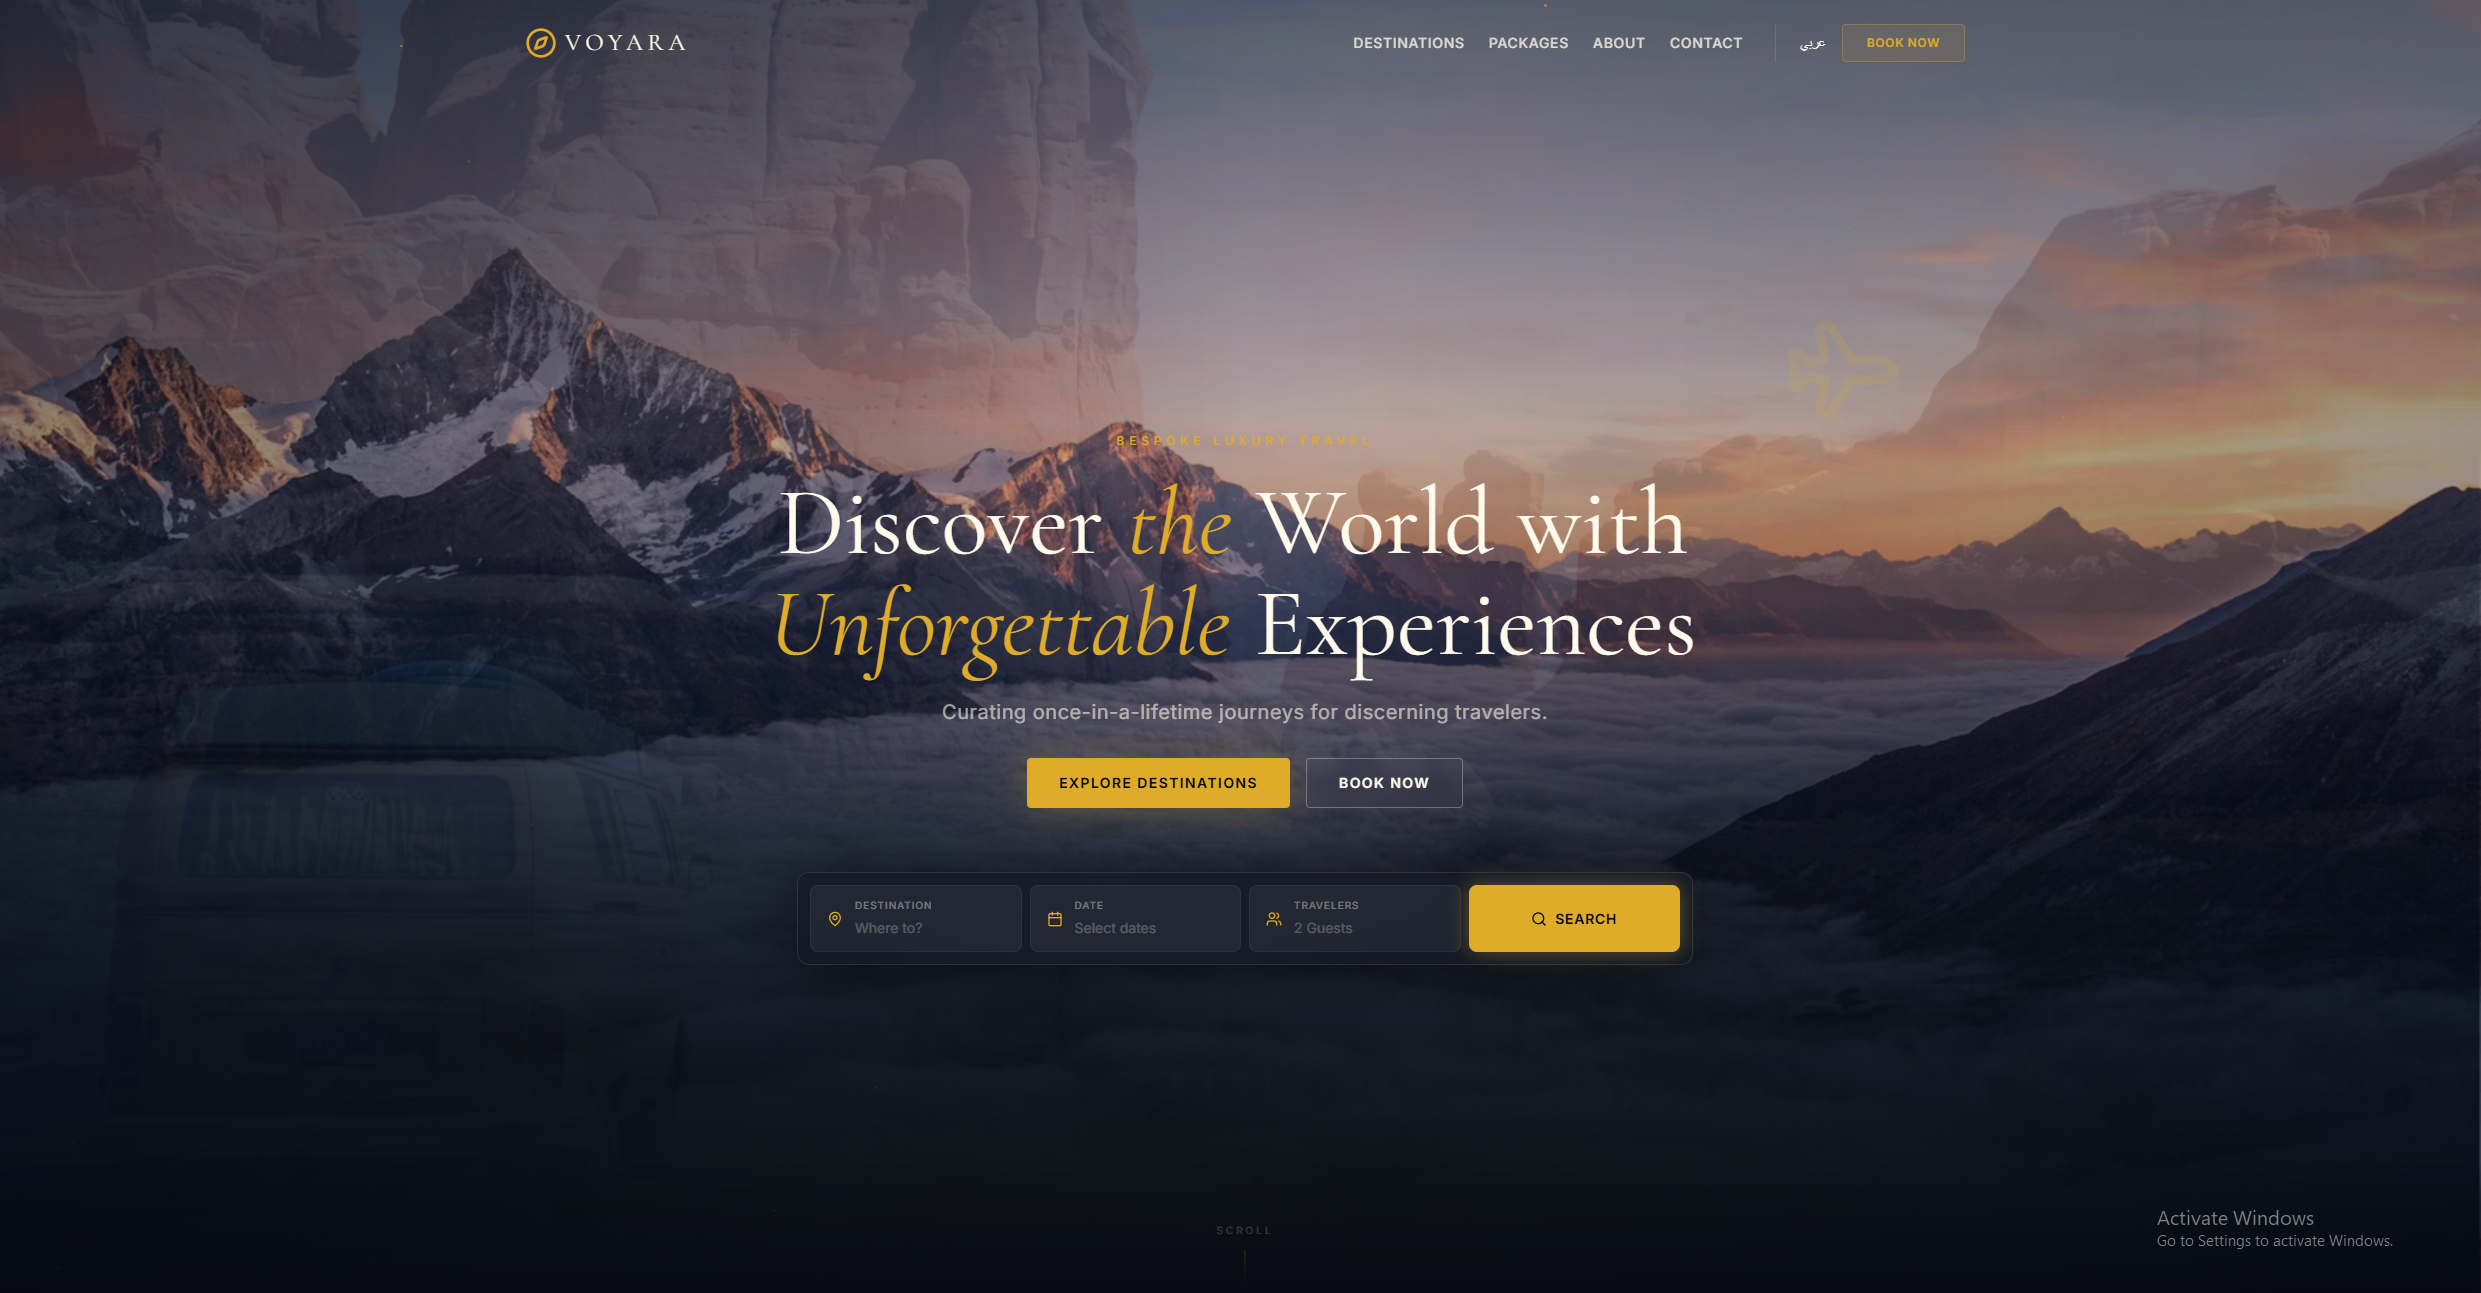
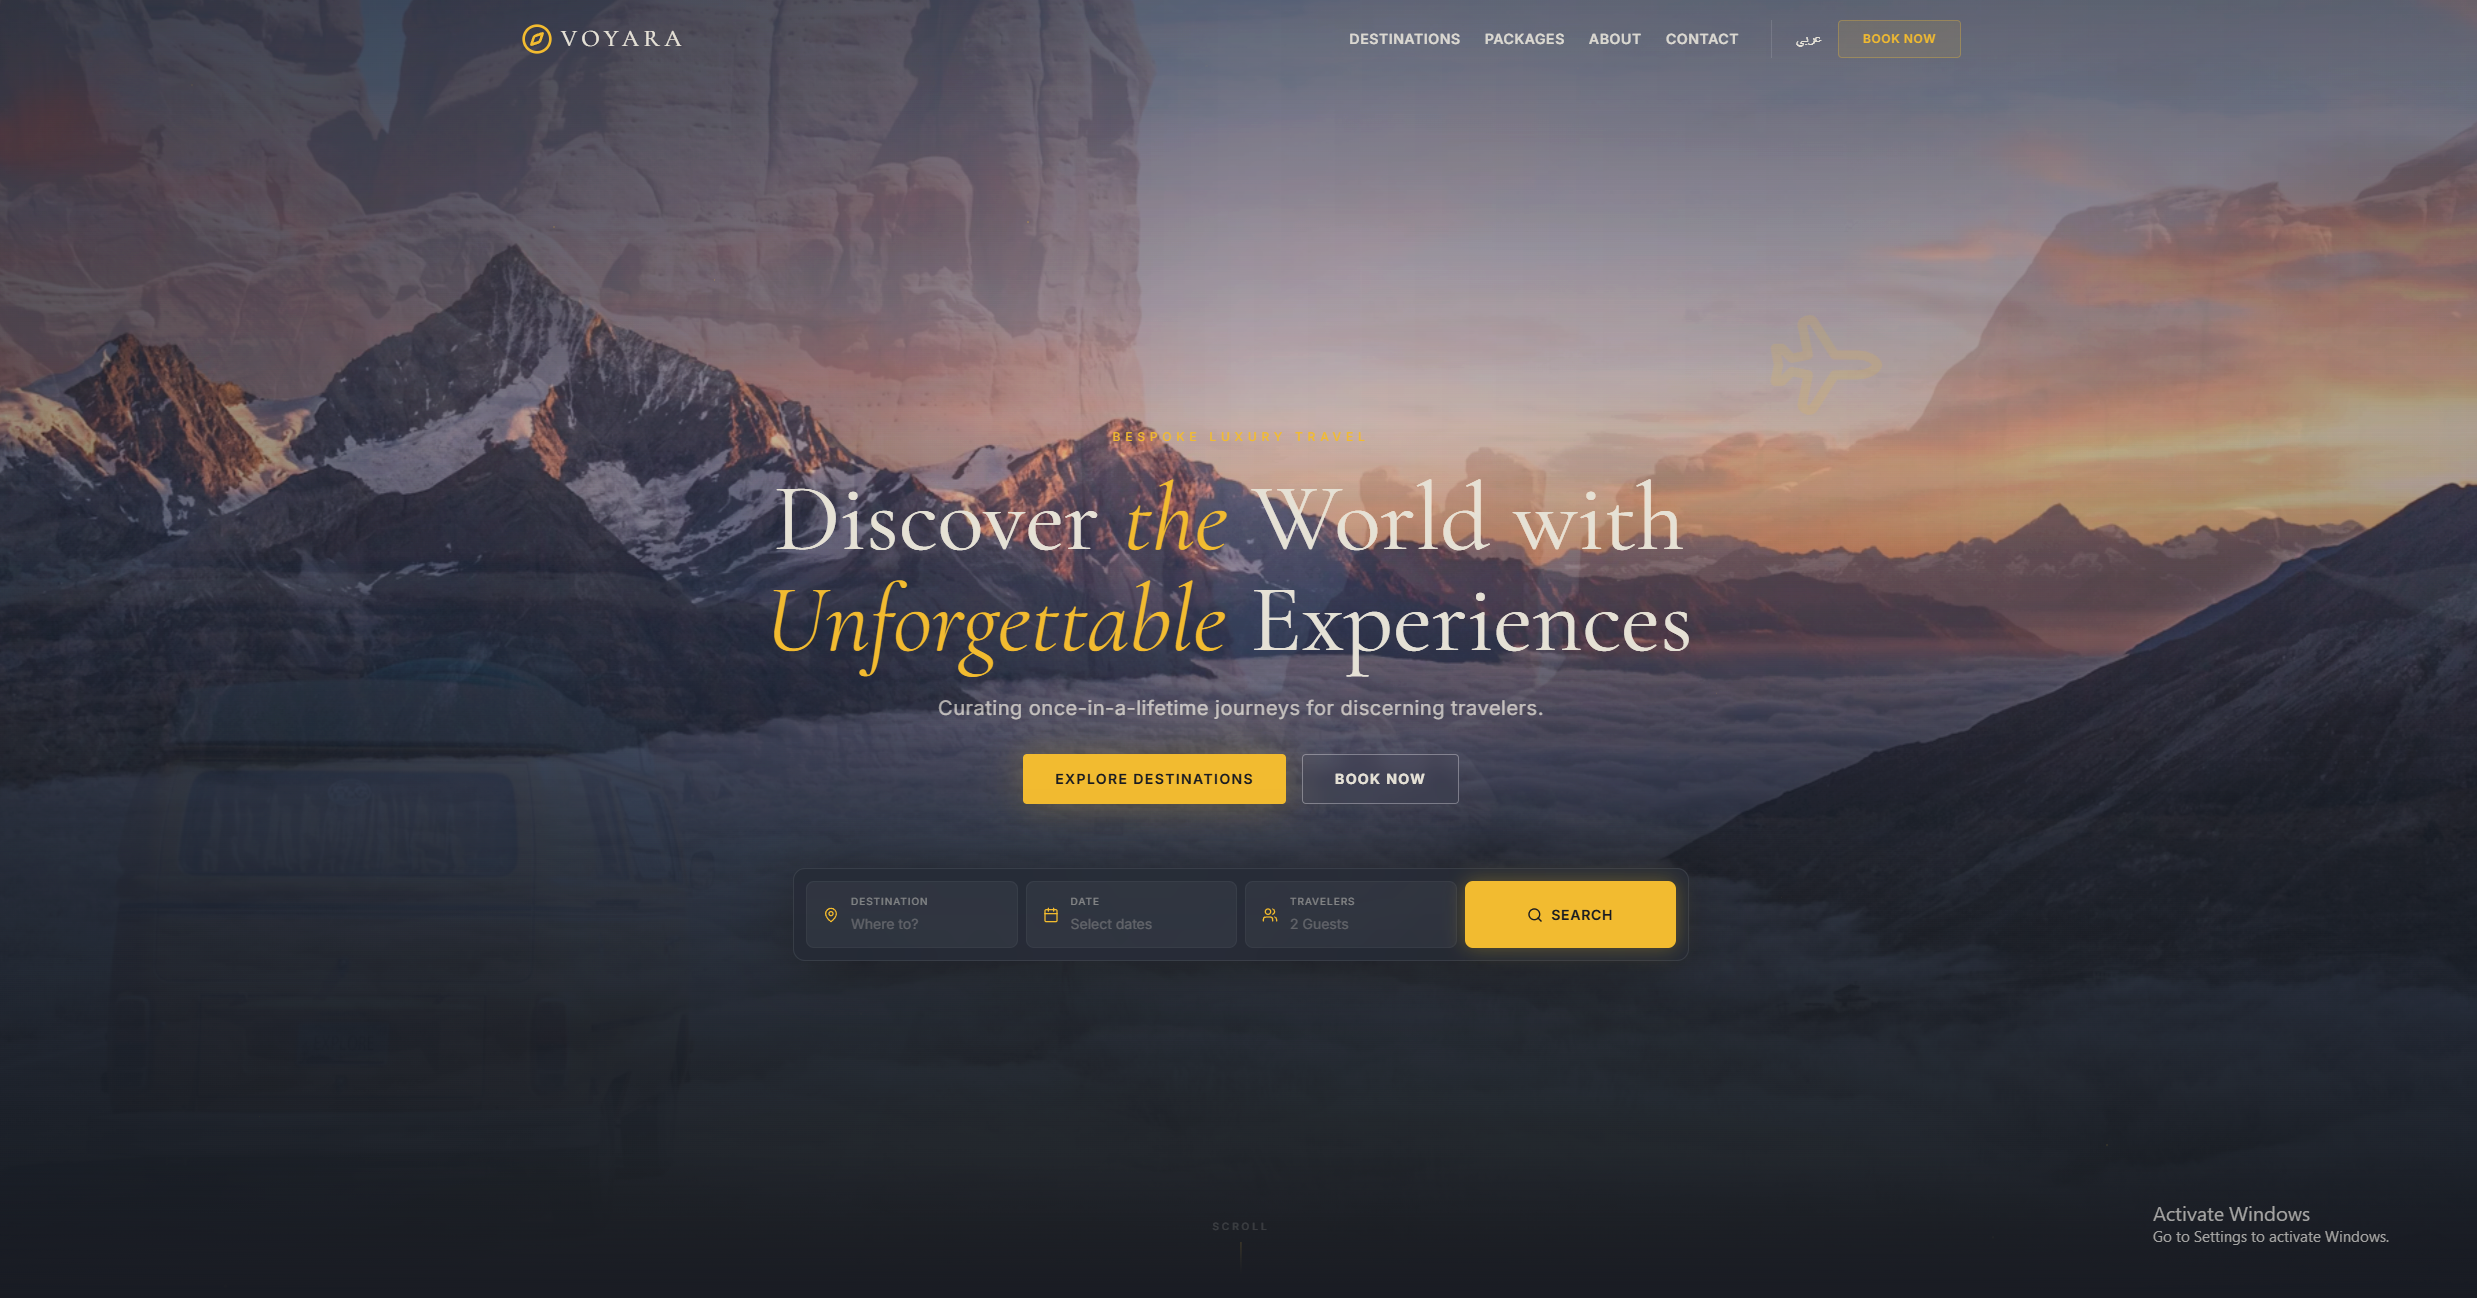
Updates

diff --git a/index.html b/index.html
@@ -16,7 +16,7 @@
     <link rel="preconnect" href="https://fonts.googleapis.com">
     <link rel="preconnect" href="https://fonts.gstatic.com" crossorigin>
     <link href="https://fonts.googleapis.com/css2?family=Inter:wght@400;500;600;700&display=swap" rel="stylesheet">
-    <script type="module" crossorigin src="/MY-FULL-Portfolio/assets/index-0Ui__lvY.js"></script>
+    <script type="module" crossorigin src="/MY-FULL-Portfolio/assets/index-B1Cwmz9c.js"></script>
     <link rel="stylesheet" crossorigin href="/MY-FULL-Portfolio/assets/index-BKNAoJbZ.css">
   </head>
   <body>